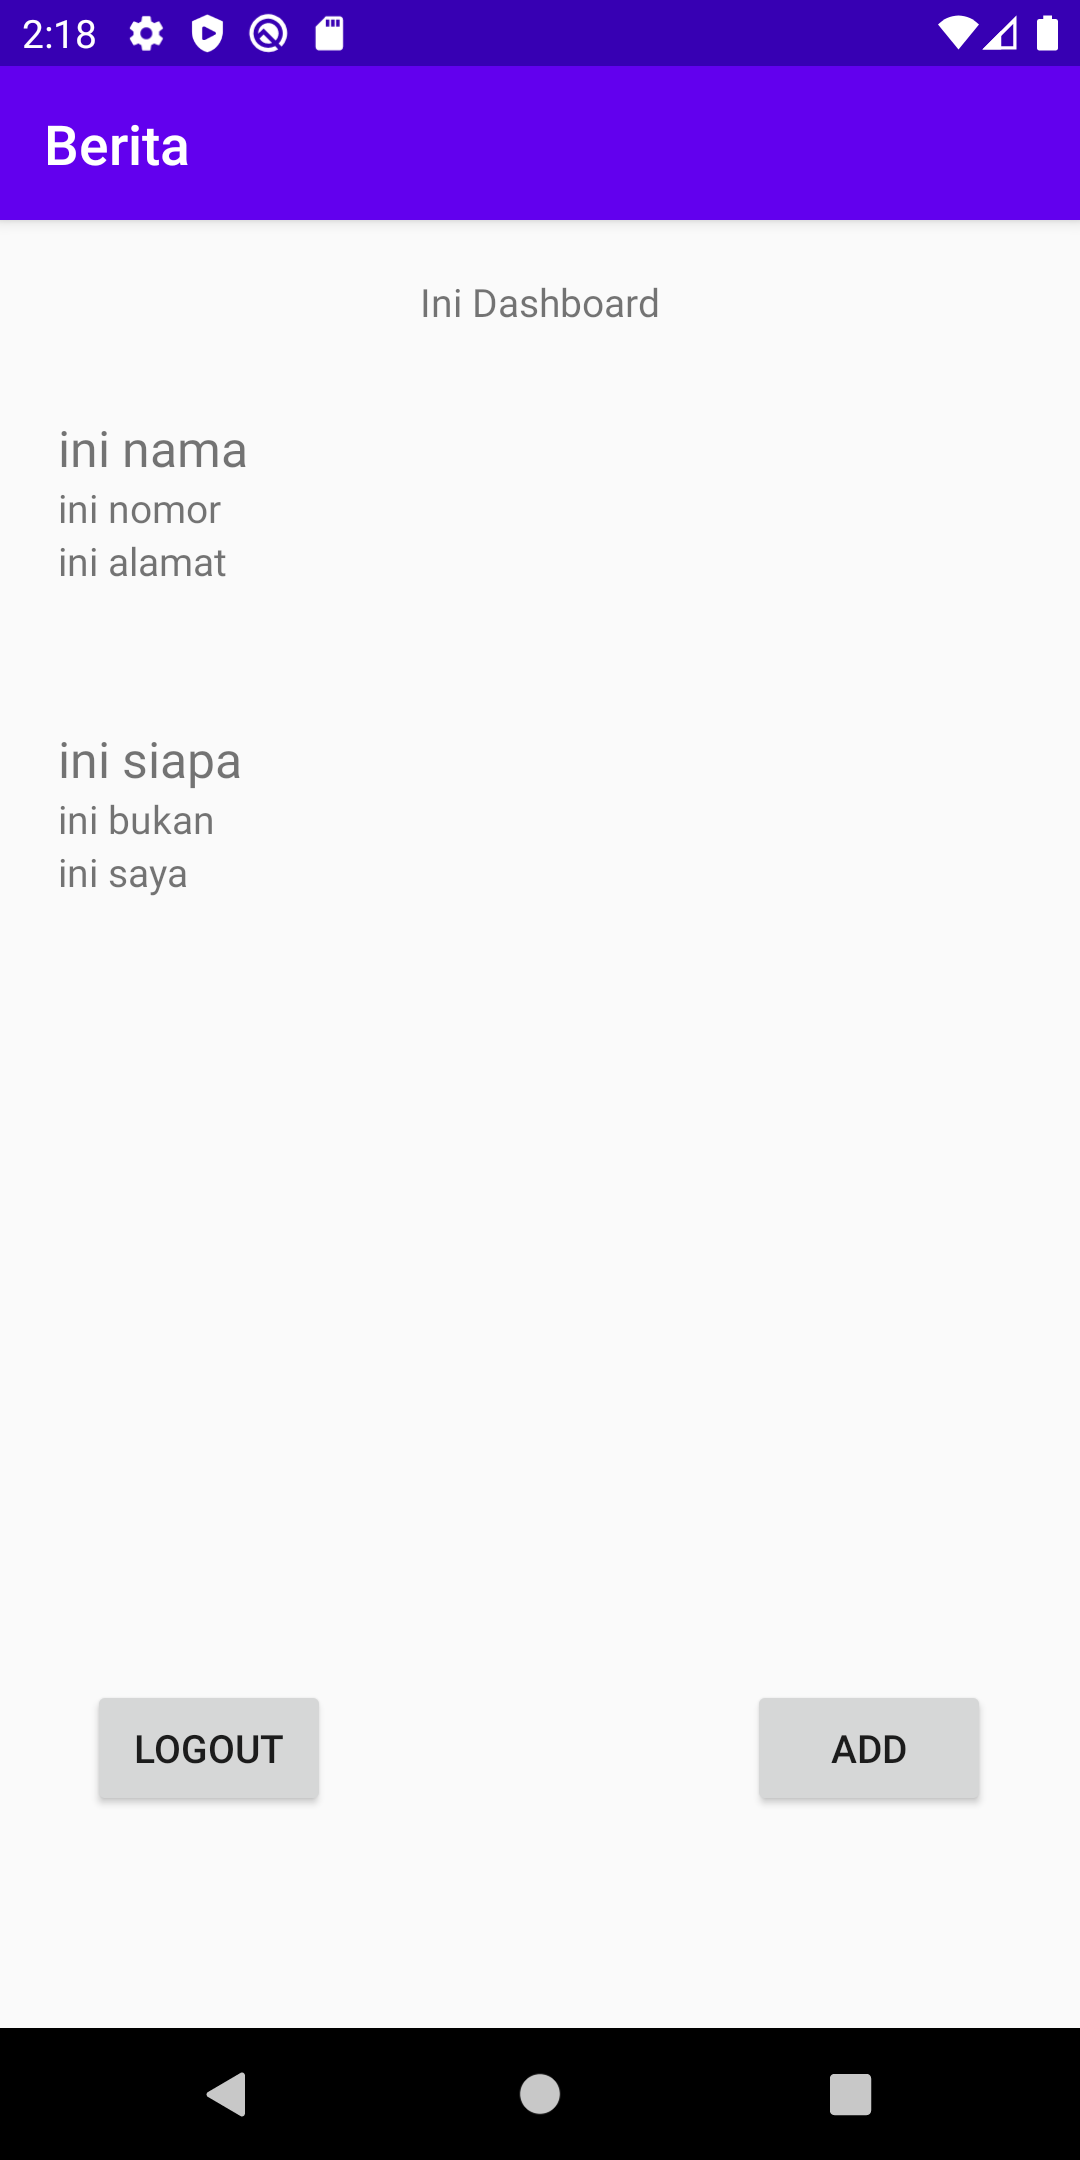
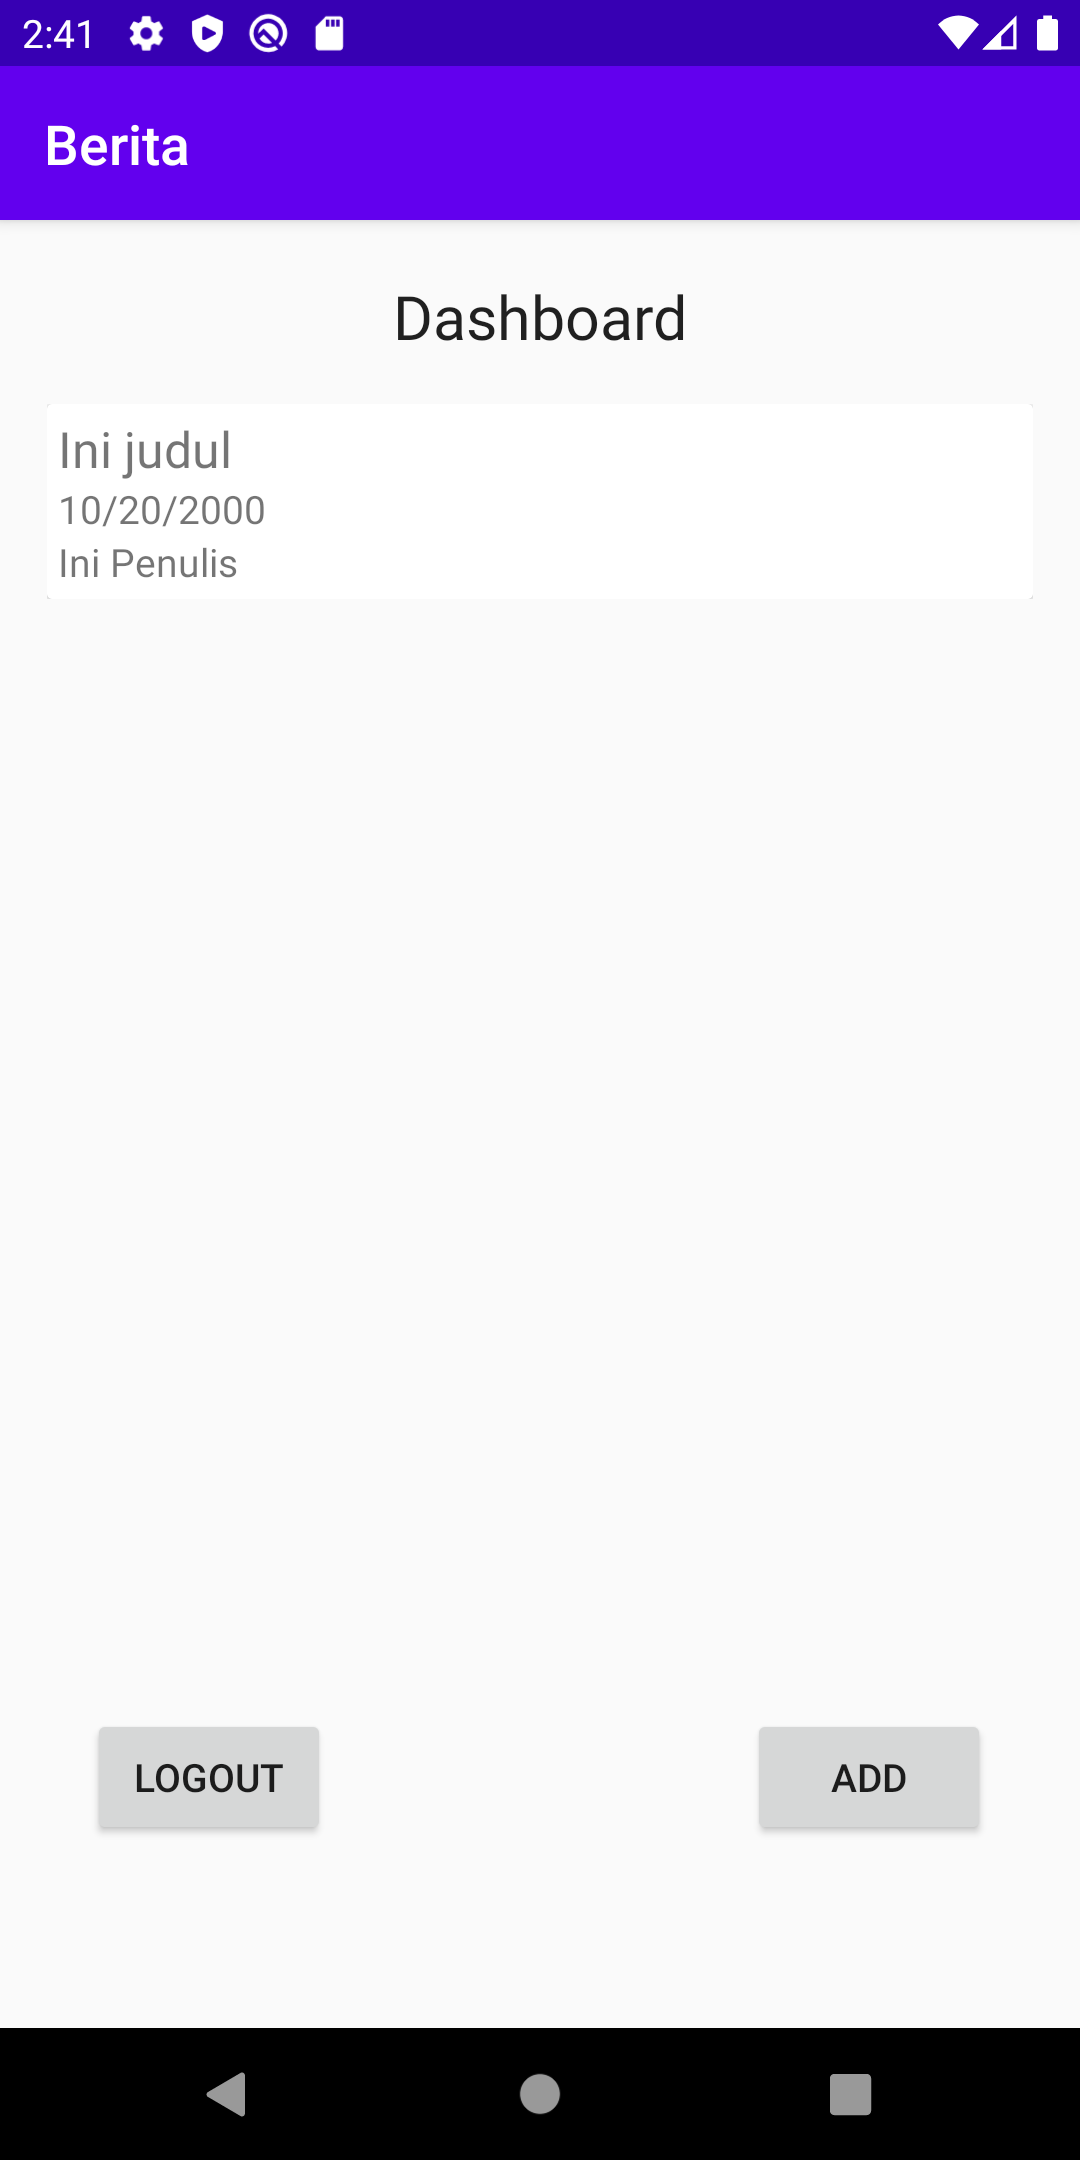
Refine the Layout
+ Refine XML Layout
+ Updated SS

diff --git a/UTS/Berita/app/src/main/java/com/example/terapanm6/BeritaAdapter.kt b/UTS/Berita/app/src/main/java/com/example/terapanm6/BeritaAdapter.kt
@@ -10,9 +10,9 @@ class BeritaAdapter(val slideList: ArrayList<Berita>):
     RecyclerView.Adapter<BeritaAdapter.ViewHolder>(){
         override fun onBindViewHolder(holder: ViewHolder, position: Int) {
             val user: Berita = slideList[position]
-            holder.textViewName.text = user.judul
-            holder.textViewNumber.text = user.waktu
-            holder.textViewAddress.text = user.penulis
+            holder.textViewJudul.text = user.judul
+            holder.textViewWaktu.text = user.waktu
+            holder.textViewPenulis.text = user.penulis
         }
 
         override fun onCreateViewHolder(parent: ViewGroup, viewType: Int): ViewHolder {
@@ -25,8 +25,8 @@ class BeritaAdapter(val slideList: ArrayList<Berita>):
         }
 
         class ViewHolder(itemView: View) : RecyclerView.ViewHolder(itemView) {
-            val textViewName = itemView.findViewById(R.id.textViewName) as TextView
-            val textViewNumber = itemView.findViewById(R.id.textViewNumber) as TextView
-            val textViewAddress = itemView.findViewById(R.id.textViewAddress) as TextView
+            val textViewJudul = itemView.findViewById(R.id.textViewJudul) as TextView
+            val textViewWaktu = itemView.findViewById(R.id.textViewWaktu) as TextView
+            val textViewPenulis = itemView.findViewById(R.id.textViewPenulis) as TextView
         }
 }

diff --git a/UTS/Berita/app/src/main/java/com/example/terapanm6/BeritaActivity.kt b/UTS/Berita/app/src/main/java/com/example/terapanm6/BeritaActivity.kt
@@ -21,10 +21,10 @@ class BeritaActivity : AppCompatActivity() {
         setContentView(R.layout.activity_berita)
 
         btn_save.setOnClickListener {
-            val nama = editTextJudul.text.toString()
-            val nomor = editTextWaktu.text.toString()
-            val alamat = editTextPenulis.text.toString()
-            postServer(nama, nomor, alamat)
+            val judul = editTextJudul.text.toString()
+            val waktu = editTextWaktu.text.toString()
+            val penulis = editTextPenulis.text.toString()
+            postServer(judul, waktu, penulis)
             startActivity(Intent(this, DashboardActivity::class.java))
         }
     }
